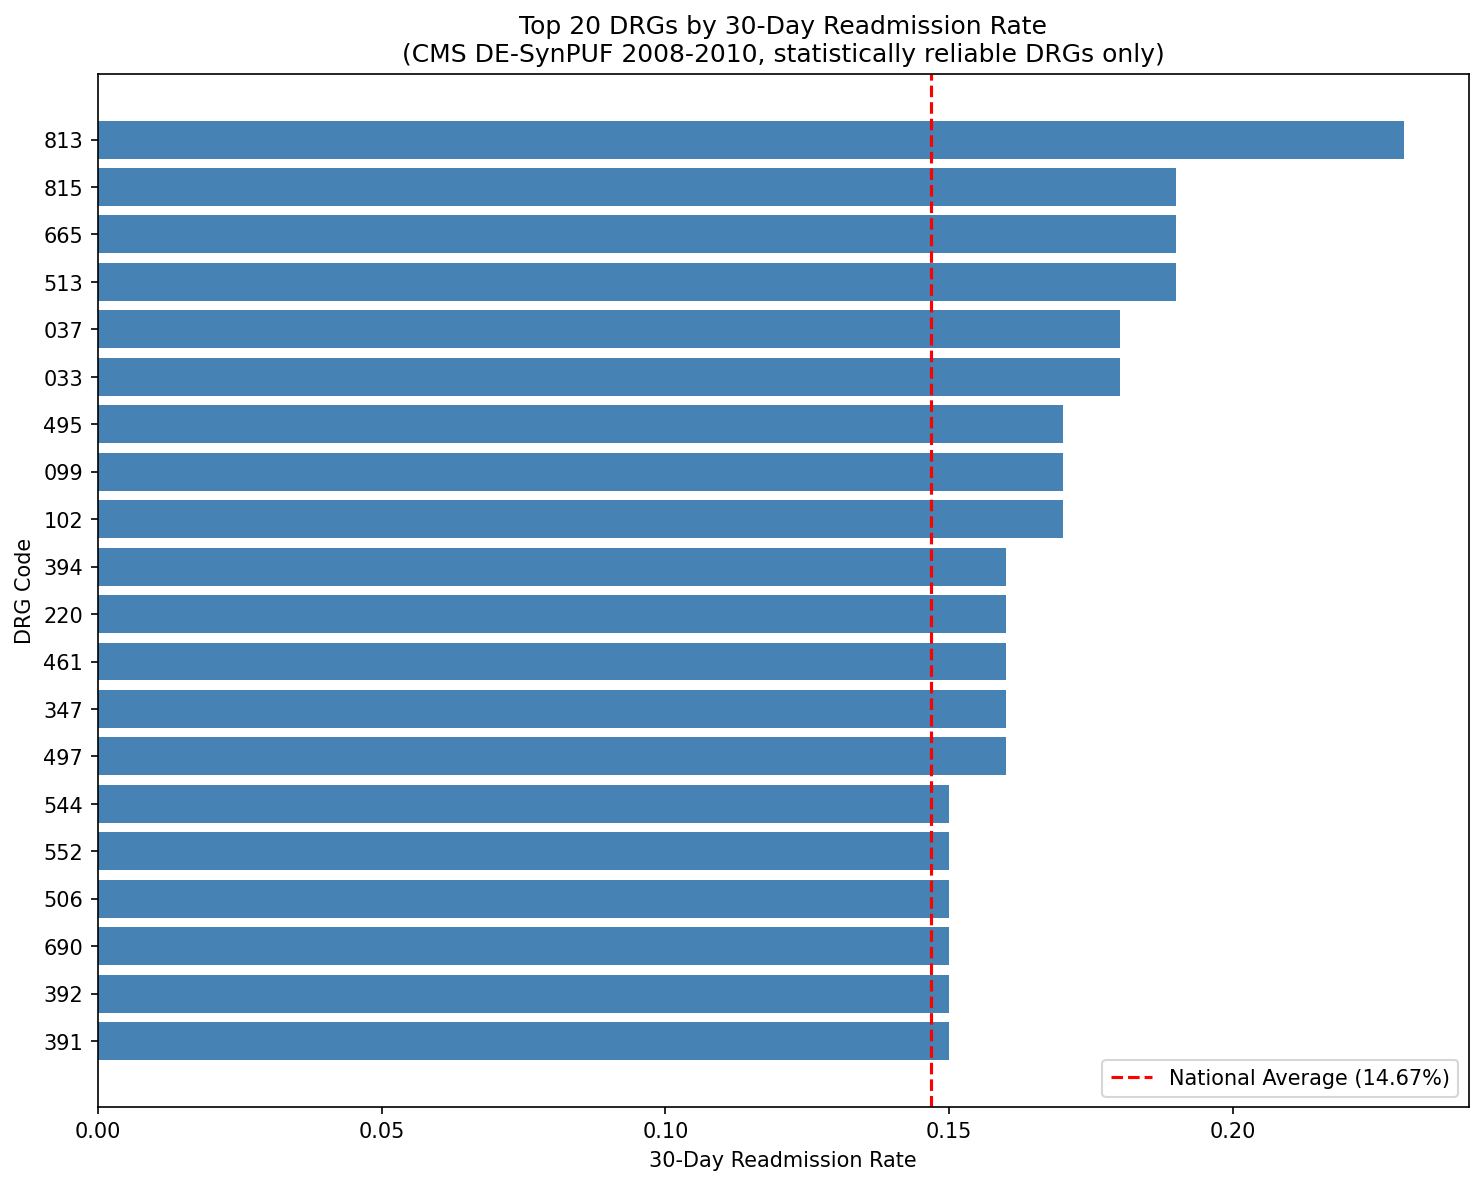
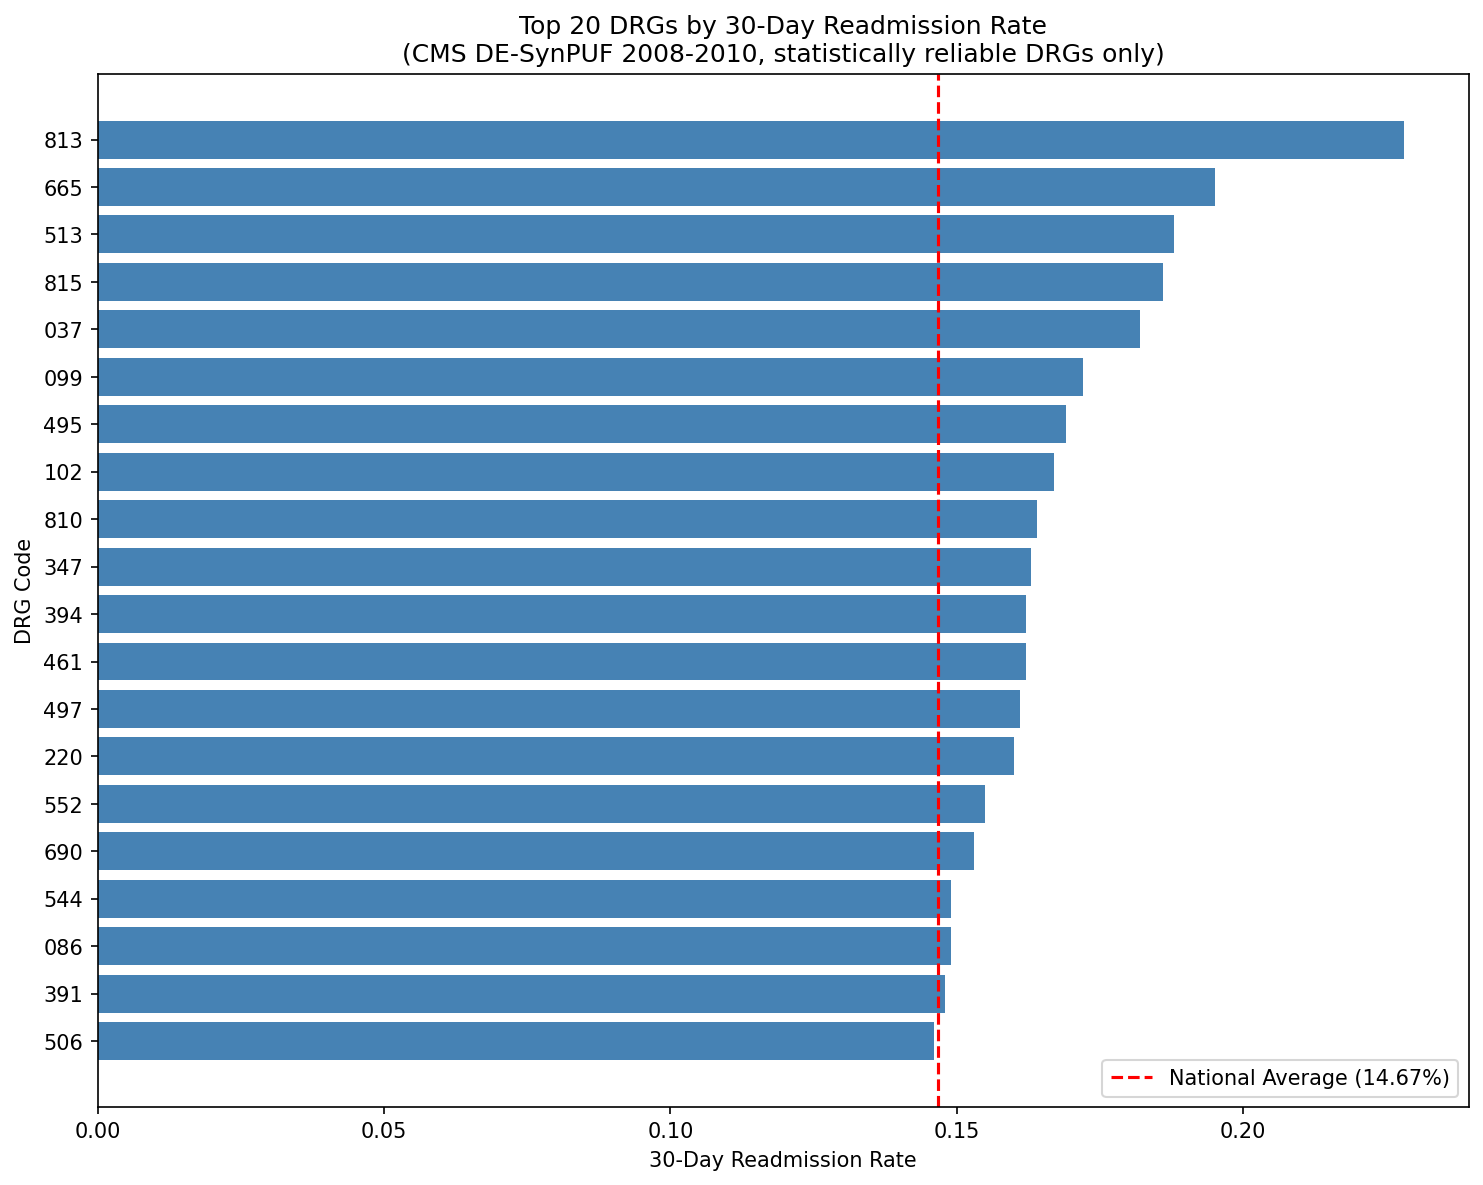
Update README and ROUND in query06

diff --git a/README.md b/README.md
@@ -8,9 +8,42 @@ correction, and comparison against the national readmission benchmark.
 
 - Overall 30-day readmission rate: **9.65%** across 66,449 index discharges
 - National all-cause benchmark: **14.67%** (Definitive Healthcare, 2025, sourced from CMS data)
+- Highest readmission rates: 
+**Coagulation Disorders (DRG 813)** at 22.8%, 
+**Prostatectomy with MCC (DRG 665)** at 19.5%,
+**Hand or Wrist Proc, Except Major Thumb or Joint Proc w CC/MCC (DRG 513)** at 18.8%,
+**Reticuloendothelial & Immunity Disorders (DRG 815)** at 18.6%, and 
+**Extracranial Procedures w MCC (DRG 037)** at 18.2%
+  
+- Notable: the highest-rate DRGs span hematologic, urologic, orthopedic, 
+  immunologic, and neurologic conditions — no cardiac DRGs appear in the 
+  top 5, despite cardiac conditions being the primary focus of CMS HRRP 
+  readmission reduction programs.
 
-## Overview
-This project analyzes CMS Medicare claims data to identify readmission patterns and cost utilization opportunities. Using the 2008-2010 DE-SynPUF synthetic inpatient and outpatient claims files, the analysis applies SQL-based methods common in health plan and population health analytics — including length of stay by diagnosis, high-utilizer identification, and 30-day readmission flagging.
+![Top 20 DRGs by 30-Day Readmission Rate](images/top20_drg_readmission_rate.png)  
+
+
+## Research Question
+
+Which diagnosis groups drive 30-day readmissions in this Medicare
+population, and how do their rates compare to the national benchmark once
+low-volume and censored discharges are handled correctly?
+
+
+## Methods
+
+- **Readmission flagging:** LEAD() window functions over per-patient
+  discharge sequences (CTE-structured), computed two ways — including and
+  excluding 1-day gaps — with the tradeoffs documented in query comments
+- **Censoring correction:** Excluded [324] discharges (0.49%) within 30
+  days of the observation window end, since their readmission status is
+  unobservable; naive inclusion understates the true rate
+- **Statistical reliability filter:** DRGs retained only where n×p ≥ 10 and
+  n×(1−p) ≥ 10 (CLT proportions check), preventing unstable rates from
+  low-volume diagnosis groups
+- **Rate calculation:** Conditional aggregation (AVG of CASE WHEN) by DRG
+
+
 
 ## Data Source
 